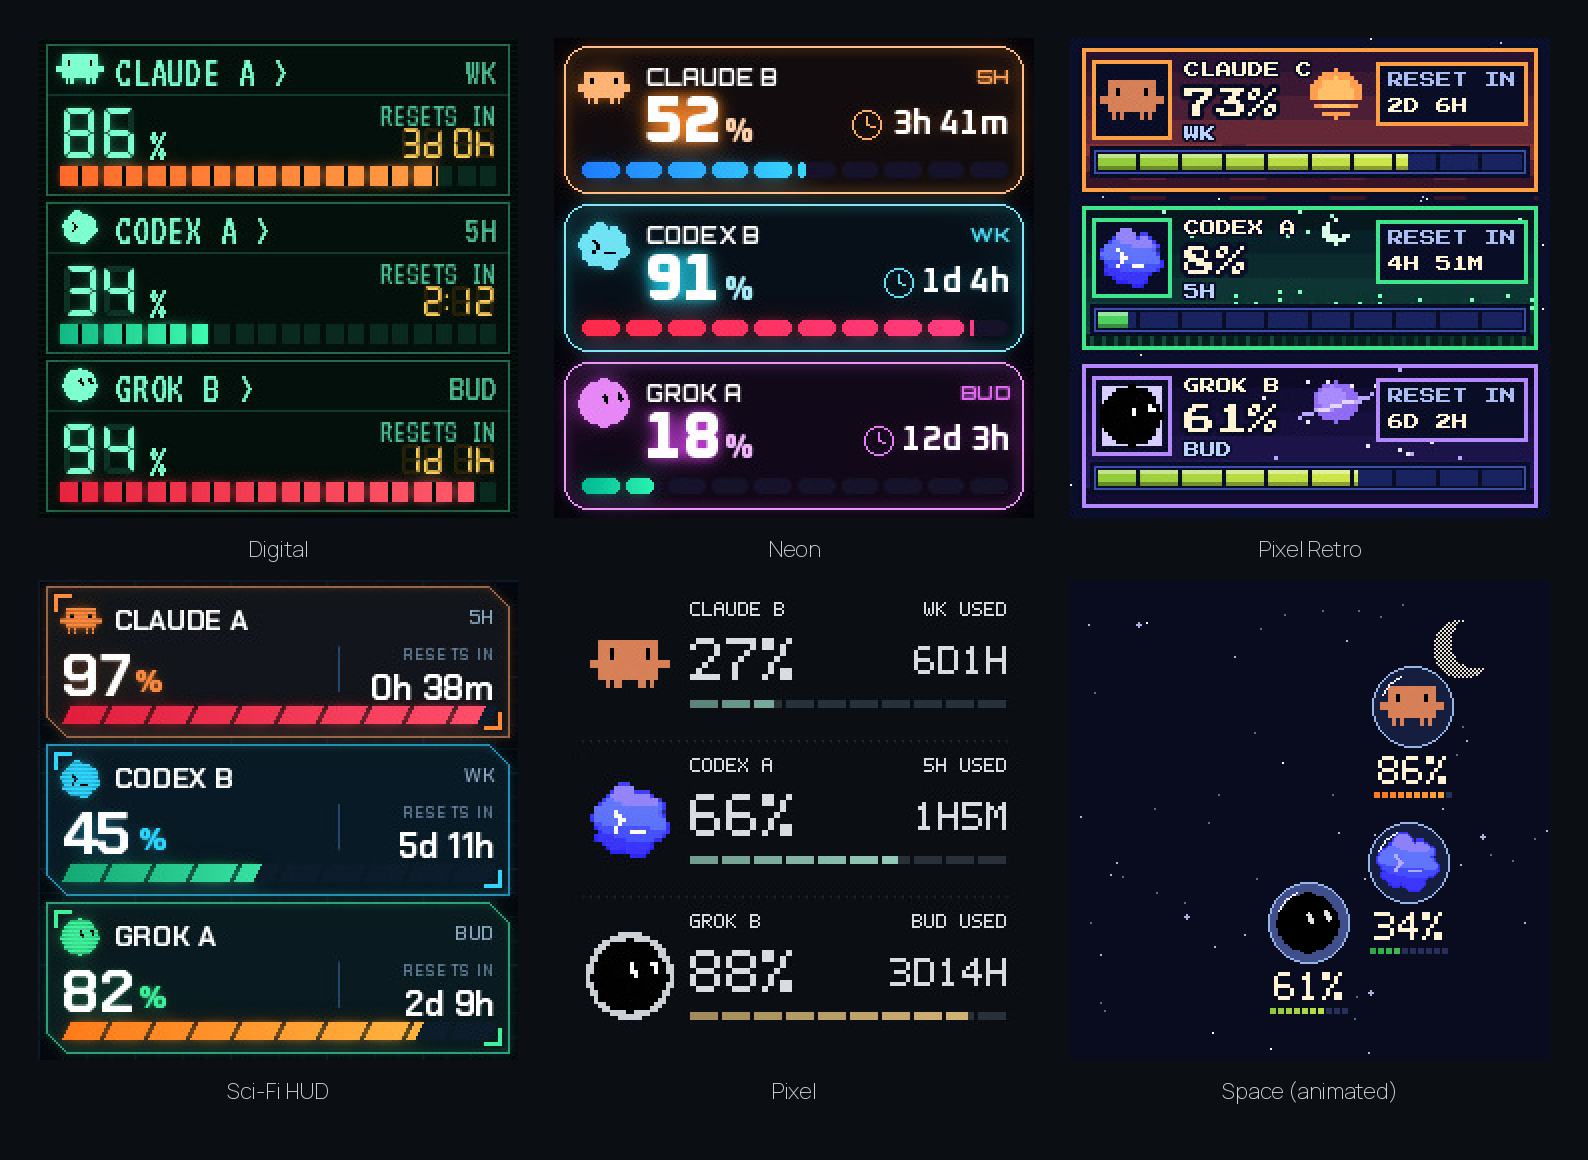
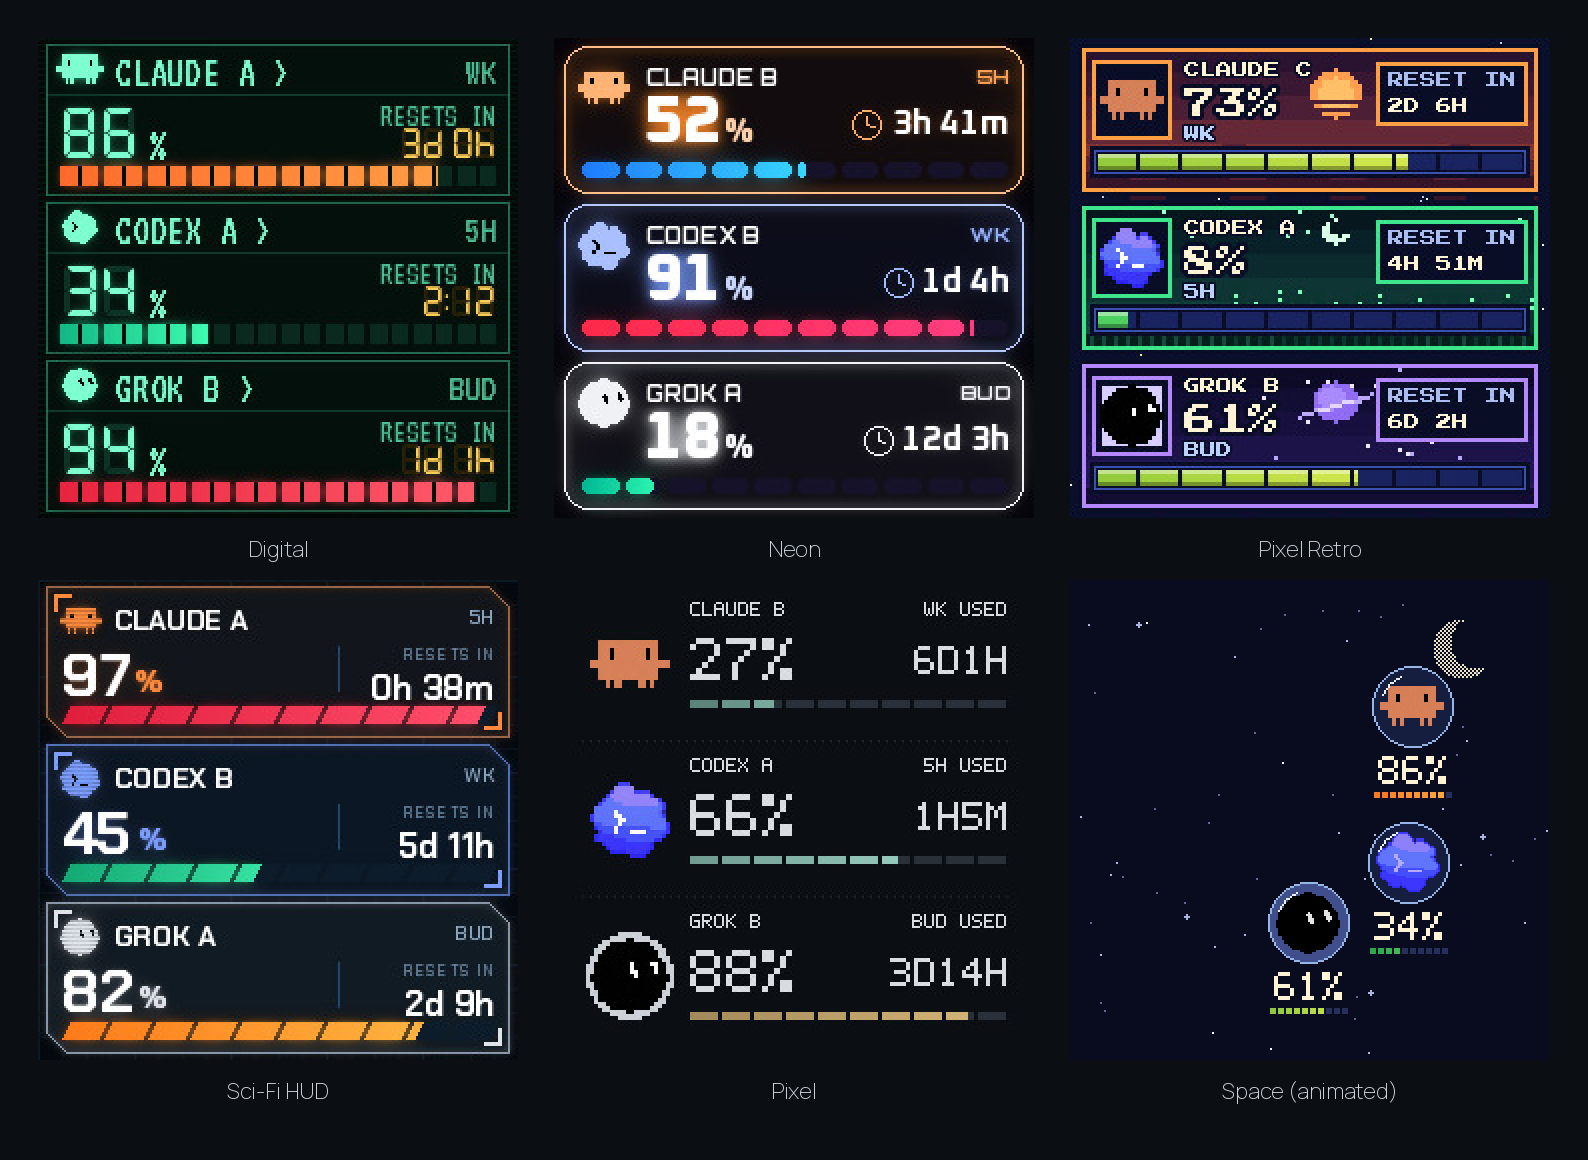
Give Codex and Grok their signature colours on Neon and HUD
Codex rows use blue-violet, Grok rows white so its bot reads as a white face
with dark eyes.

diff --git a/token_tv/themes.py b/token_tv/themes.py
@@ -29,9 +29,9 @@ BANDS = {
     'hud': (('#14a874', '#35e0a0'), ('#1a7dff', '#3cc4ff'), ('#ff7a1a', '#ffb23f'), ('#e01e3c', '#ff4d6a')),
 }
 ACCENT = {
-    'neon': {'claude': ('#ff8a2b', '#ffd23f'), 'codex': ('#22d3ee', '#4f7bff'), 'grok': ('#d946ef', '#8b5cf6')},
+    'neon': {'claude': ('#ff8a2b', '#ffd23f'), 'codex': ('#7a9dff', '#b1a7ff'), 'grok': ('#e8eaf0', '#ffffff')},
     'retro': {'claude': ('#ff9f43', '#ffcf6b'), 'codex': ('#3ee68b', '#9bffc8'), 'grok': ('#b388ff', '#e0d0ff')},
-    'hud': {'claude': ('#ff8a3d', '#ffb47a'), 'codex': ('#2fd4ff', '#8be9ff'), 'grok': ('#3ef29b', '#9dffcb')},
+    'hud': {'claude': ('#ff8a3d', '#ffb47a'), 'codex': ('#7a9dff', '#b1a7ff'), 'grok': ('#dfe3ea', '#ffffff')},
 }
 
 
